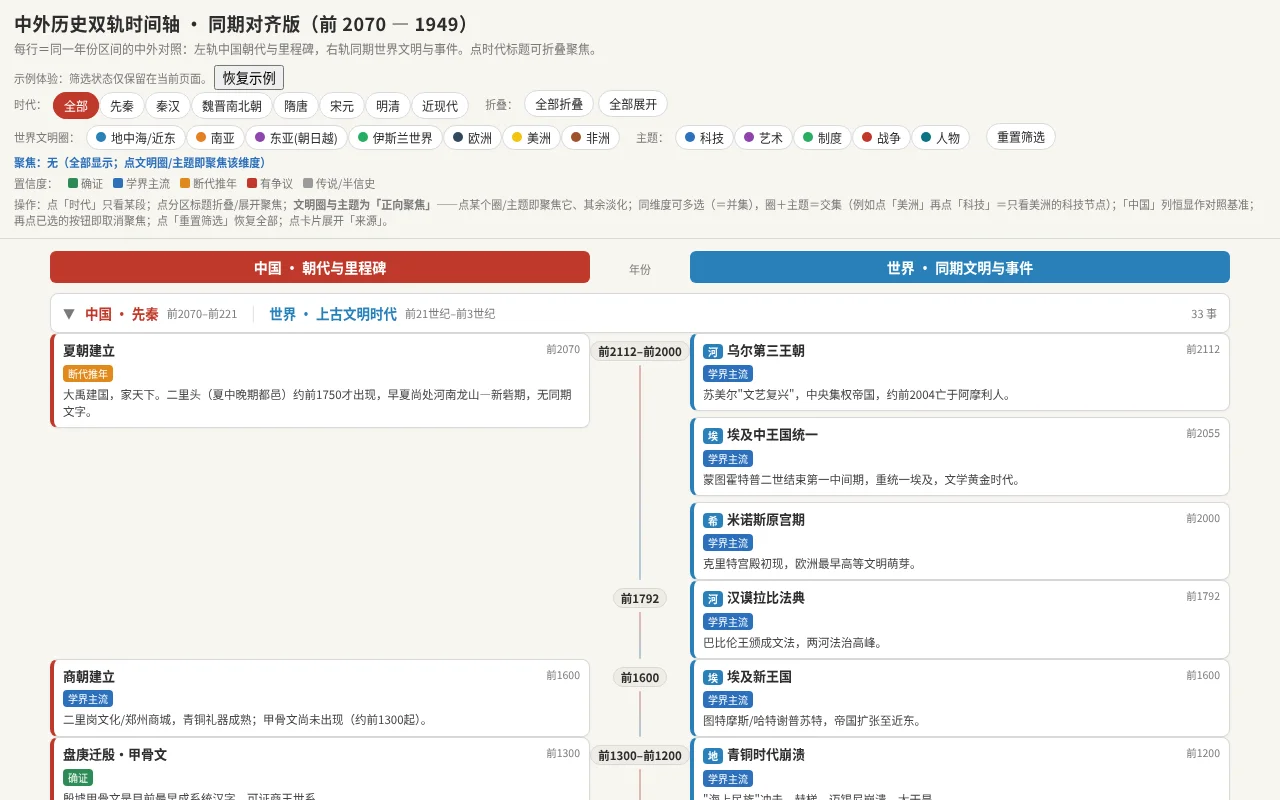
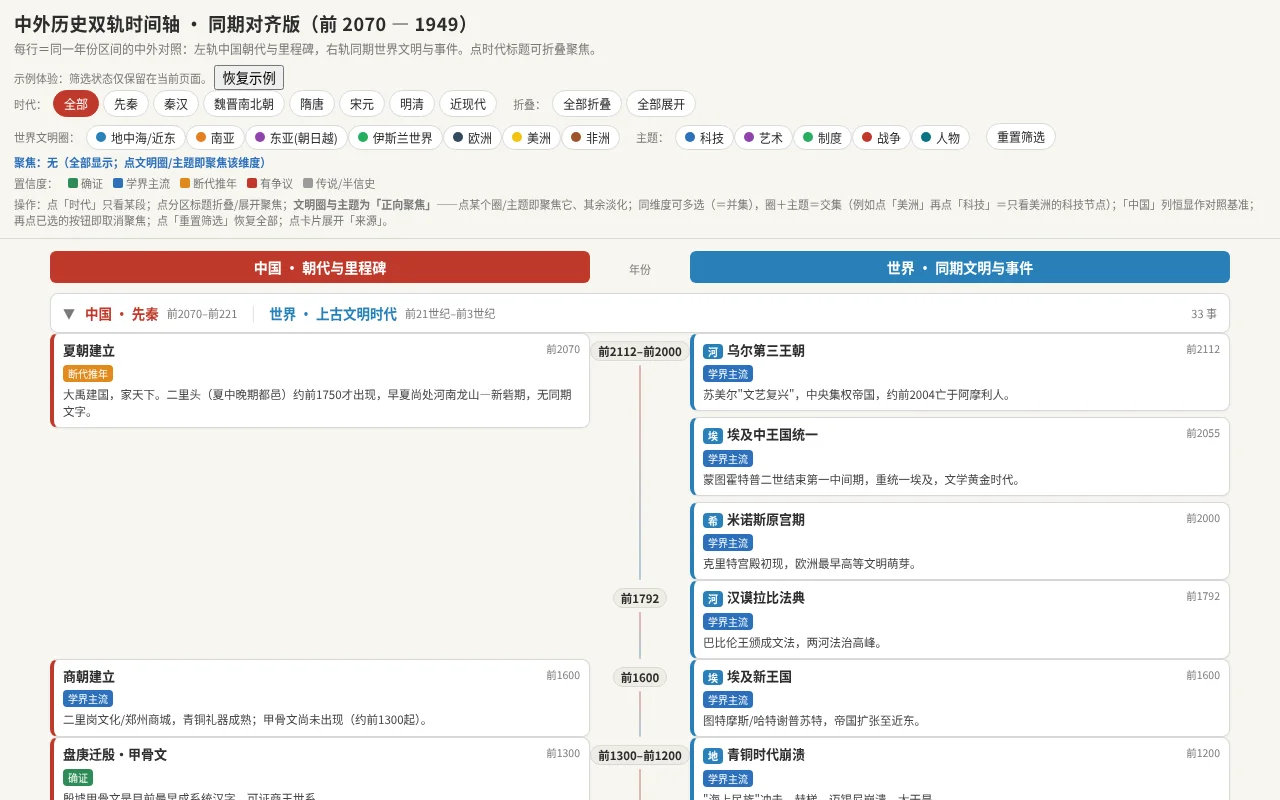
Improve timeline on narrow screens

Changed region(s): [[0.0312, 0.0938, 0.5312, 0.1562]]

diff --git a/4d5bea81fa658e0c4296d7ae/app.js b/4d5bea81fa658e0c4296d7ae/app.js
@@ -1,4 +1,4 @@
-const style=document.createElement("style");style.textContent="\n  :root{\n    --china:#C0392B; --med:#2980B9; --sa:#E67E22; --ea:#8E44AD; --is:#27AE60;\n    --eu:#34495E; --am:#F1C40F; --af:#A0522D;\n    --ink:#2c2c2c; --muted:#7a7a7a; --line:#d9d9d9; --bg:#f7f5f0; --card:#fff;\n    --c-ok:#2e8b57; --c-main:#2c6fbb; --c-push:#e08a1e; --c-debate:#c0392b; --c-legend:#9b9b9b;\n  }\n  *{box-sizing:border-box;}\n  body{margin:0;font-family:\"PingFang SC\",\"Microsoft YaHei\",\"Noto Sans CJK SC\",sans-serif;background:var(--bg);color:var(--ink);}\n  header{position:sticky;top:0;z-index:30;background:rgba(247,245,240,.97);backdrop-filter:blur(6px);border-bottom:1px solid var(--line);padding:10px 14px;}\n  h1{font-size:18px;margin:0 0 4px;font-weight:700;letter-spacing:.5px;}\n  .sub{font-size:12px;color:var(--muted);margin-bottom:8px;}\n  .filters{display:flex;flex-wrap:wrap;gap:6px;align-items:center;}\n  .grp{display:flex;gap:4px;flex-wrap:wrap;align-items:center;margin-right:10px;}\n  .grp .lab{font-size:11px;color:var(--muted);margin-right:2px;}\n  .btn{font-size:12px;padding:4px 10px;border:1px solid var(--line);background:#fff;border-radius:16px;cursor:pointer;transition:.15s;color:var(--ink);}\n  .btn:hover{border-color:#bbb;}\n  .btn.active{background:var(--china);color:#fff;border-color:var(--china);}\n  .tog{font-size:12px;padding:3px 9px;border:1px solid var(--line);background:#fff;border-radius:14px;cursor:pointer;display:inline-flex;align-items:center;gap:5px;transition:.15s;}\n  .tog .dot{width:10px;height:10px;border-radius:50%;display:inline-block;}\n  .tog.on{background:#eaf1fb;border-color:#2c6fbb;color:#1c4f8f;font-weight:700;box-shadow:0 0 0 1px #2c6fbb inset;}\n  .legend-conf{display:flex;gap:10px;flex-wrap:wrap;font-size:11px;color:var(--muted);margin-top:5px;}\n  .legend-conf span{display:inline-flex;align-items:center;gap:3px;}\n  .legend-conf i{width:10px;height:10px;border-radius:2px;display:inline-block;}\n  .hint{font-size:11px;color:var(--muted);margin-top:5px;}\n  .xstatus{font-size:11px;color:#2c6fbb;margin-top:4px;font-weight:600;}\n\n  .board{max-width:1200px;margin:0 auto;padding:12px 10px 30px;}\n  .hrow{display:grid;grid-template-columns:1fr 84px 1fr;gap:8px;margin-bottom:6px;position:sticky;top:150px;z-index:6;}\n  .hcell{font-weight:700;font-size:14px;text-align:center;padding:6px 0;border-radius:6px;}\n  .hcell.cn{color:#fff;background:var(--china);}\n  .hcell.wd{color:#fff;background:var(--med);}\n  .hcell.mid{background:transparent;color:var(--muted);font-size:11px;font-weight:400;align-self:end;}\n\n  section.era{margin:10px 0 16px;}\n  .era-head{display:flex;align-items:center;gap:8px;flex-wrap:wrap;background:#fff;border:1px solid var(--line);border-radius:8px;padding:7px 12px;cursor:pointer;user-select:none;box-shadow:0 1px 3px rgba(0,0,0,.04);}\n  .era-head:hover{border-color:#bbb;}\n  .chev{transition:.2s;font-size:12px;color:var(--muted);width:14px;}\n  section.closed .chev{transform:rotate(-90deg);}\n  section.closed .rows{display:none;}\n  .era-head .cnl{font-weight:700;color:var(--china);font-size:13.5px;}\n  .era-head .wdl{font-weight:700;color:var(--med);font-size:13.5px;}\n  .era-head .rng{font-size:11px;color:var(--muted);}\n  .era-head .sep{color:var(--line);}\n  .era-head .cnt{font-size:11px;color:var(--muted);margin-left:auto;}\n\n  .row{display:grid;grid-template-columns:1fr 84px 1fr;gap:8px;align-items:stretch;margin:0;}\n  .cell{display:flex;flex-direction:column;gap:6px;min-width:0;}\n  .cell .none{flex:1;border:1px dashed transparent;border-radius:6px;min-height:10px;}\n  .mid{display:flex;flex-direction:column;align-items:center;justify-content:flex-start;padding-top:8px;}\n  .mid .yr{font-size:11.5px;color:var(--ink);font-weight:700;white-space:nowrap;font-variant-numeric:tabular-nums;background:#efece5;border:1px solid var(--line);border-radius:10px;padding:1px 7px;}\n  .mid .tick{flex:1;width:2px;background:linear-gradient(var(--china),var(--med));opacity:.35;margin-top:4px;border-radius:2px;}\n\n  .card{background:var(--card);border:1px solid var(--line);border-radius:8px;padding:7px 9px;box-shadow:0 1px 3px rgba(0,0,0,.04);cursor:pointer;transition:.15s;position:relative;}\n  .card:hover{box-shadow:0 3px 10px rgba(0,0,0,.1);}\n  .card.cn{border-left:4px solid var(--china);}\n  .card.wd{border-left:4px solid var(--med);}\n  .card.dim{opacity:.18;filter:grayscale(.6);}\n  .card .top{display:flex;justify-content:space-between;align-items:flex-start;gap:6px;}\n  .card .ttl{font-size:13px;font-weight:600;line-height:1.35;}\n  .card .yr{font-size:10.5px;color:var(--muted);white-space:nowrap;font-variant-numeric:tabular-nums;}\n  .badge{display:inline-block;font-size:10px;color:#fff;border-radius:4px;padding:1px 5px;margin-right:4px;vertical-align:middle;}\n  .conf{font-size:10px;padding:1px 5px;border-radius:4px;color:#fff;white-space:nowrap;}\n  .conf.ok{background:var(--c-ok);} .conf.main{background:var(--c-main);} .conf.push{background:var(--c-push);}\n  .conf.debate{background:var(--c-debate);} .conf.legend{background:var(--c-legend);}\n  .card .desc{font-size:11.5px;color:#444;margin-top:3px;line-height:1.5;}\n  .card .src{font-size:11px;color:var(--muted);margin-top:5px;display:none;border-top:1px dashed var(--line);padding-top:5px;}\n  .card.open .src{display:block;}\n  .theme-tag{display:inline-block;font-size:10px;background:#eee;color:#555;border-radius:4px;padding:1px 6px;margin-right:4px;}\n\n  footer{max-width:1200px;margin:0 auto;padding:14px;font-size:11px;color:var(--muted);line-height:1.7;}\n  footer b{color:var(--ink);}\n  @media(max-width:680px){\n    .hrow,.row{grid-template-columns:1fr 58px 1fr;gap:4px;}\n    .card .ttl{font-size:12px;} .card .desc{font-size:10.5px;} .mid .yr{font-size:10px;padding:1px 4px;}\n    .era-head .cnt{display:none;}\n  }\n";document.head.appendChild(style);document.title="中外历史双轨时间轴（前2070 — 1949）";document.getElementById("app").innerHTML="\n<header>\n  <h1>中外历史双轨时间轴 · 同期对齐版（前 2070 — 1949）</h1>\n  <div class=\"sub\">每行＝同一年份区间的中外对照：左轨中国朝代与里程碑，右轨同期世界文明与事件。点时代标题可折叠聚焦。</div>\n  <div class=\"filters\">\n    <div class=\"grp\"><span class=\"lab\">时代：</span><span id=\"eraBtns\"></span></div>\n    <div class=\"grp\"><span class=\"lab\">折叠：</span><span class=\"btn\" id=\"foldAll\">全部折叠</span><span class=\"btn\" id=\"unfoldAll\">全部展开</span></div>\n    <div class=\"grp\"><span class=\"lab\">世界文明圈：</span><span id=\"regionBtns\"></span></div>\n    <div class=\"grp\"><span class=\"lab\">主题：</span><span id=\"themeBtns\"></span></div>\n    <div class=\"grp\"><span class=\"btn\" id=\"resetFilter\">重置筛选</span></div>\n  </div>\n  <div class=\"xstatus\" id=\"xstatus\"></div>\n  <div class=\"legend-conf\">\n    <span>置信度：</span>\n    <span><i style=\"background:var(--c-ok)\"></i>确证</span>\n    <span><i style=\"background:var(--c-main)\"></i>学界主流</span>\n    <span><i style=\"background:var(--c-push)\"></i>断代推年</span>\n    <span><i style=\"background:var(--c-debate)\"></i>有争议</span>\n    <span><i style=\"background:var(--c-legend)\"></i>传说/半信史</span>\n  </div>\n  <div class=\"hint\">操作：点「时代」只看某段；点分区标题折叠/展开聚焦；<b>文明圈与主题为「正向聚焦」</b>——点某个圈/主题即聚焦它、其余淡化；同维度可多选（＝并集），圈＋主题＝交集（例如点「美洲」再点「科技」＝只看美洲的科技节点）；「中国」列恒显作对照基准；再点已选的按钮即取消聚焦；点「重置筛选」恢复全部；点卡片展开「来源」。</div>\n</header>\n\n<div class=\"board\">\n  <div class=\"hrow\">\n    <div class=\"hcell cn\">中国 · 朝代与里程碑</div>\n    <div class=\"hcell mid\">年份</div>\n    <div class=\"hcell wd\">世界 · 同期文明与事件</div>\n  </div>\n  <div id=\"sections\"></div>\n</div>\n\n<footer>\n  <b>说明与边界：</b>① 时代分区双标——左侧用中国朝代（先秦/秦汉/…），右侧用世界史学分期（上古文明/古典时代/中世纪/近代早期/工业时代），两列不互挂；② 每行左右同属一个<b>年份区间</b>（区间宽随时代密度自适应），同一行即\"大致同期\"，非严格同年；③ 前秦（夏、商早期）年代多来自<b>夏商周断代工程推年</b>，标「推年/传说」；④ 世界侧按<b>七大文化区</b>着色＋文字徽标（地中海近东/南亚/东亚朝日越/伊斯兰/欧洲/美洲/非洲），并补充了<b>美洲（奥尔梅克→玛雅→阿兹特克→印加→美国）</b>与<b>奥斯曼/萨法维/莫卧儿/俄罗斯</b>等更连续的文明主线；⑤ 近代（1840–1949）世界侧按主题聚合（科技/制度/战争）；⑥ 各时代增设<b>科技/艺术/制度/战争/人物</b>五大主题专项节点（带彩色主题标签，可在顶栏「主题」正向聚焦；其中<b>「人物」收录具世界影响力的先贤与巨匠</b>，生年作节点、卒年写入简介）；⑦ 每节点带置信度与来源，具体年代以权威史学/考古结论为准。本轴为<b>教学辅助</b>，非考据定本。\n</footer>\n\n";
+const style=document.createElement("style");style.textContent="\n  :root{\n    --china:#C0392B; --med:#2980B9; --sa:#E67E22; --ea:#8E44AD; --is:#27AE60;\n    --eu:#34495E; --am:#F1C40F; --af:#A0522D;\n    --ink:#2c2c2c; --muted:#7a7a7a; --line:#d9d9d9; --bg:#f7f5f0; --card:#fff;\n    --c-ok:#2e8b57; --c-main:#2c6fbb; --c-push:#e08a1e; --c-debate:#c0392b; --c-legend:#9b9b9b;\n  }\n  *{box-sizing:border-box;}\n  body{margin:0;font-family:\"PingFang SC\",\"Microsoft YaHei\",\"Noto Sans CJK SC\",sans-serif;background:var(--bg);color:var(--ink);}\n  header{position:sticky;top:0;z-index:30;background:rgba(247,245,240,.97);backdrop-filter:blur(6px);border-bottom:1px solid var(--line);padding:10px 14px;}\n  h1{font-size:18px;margin:0 0 4px;font-weight:700;letter-spacing:.5px;}\n  .sub{font-size:12px;color:var(--muted);margin-bottom:8px;}\n  .filters{display:flex;flex-wrap:wrap;gap:6px;align-items:center;}\n  .grp{display:flex;gap:4px;flex-wrap:wrap;align-items:center;margin-right:10px;}\n  #eraBtns{display:inline-flex;flex-wrap:wrap;gap:4px;}\n  .grp .lab{font-size:11px;color:var(--muted);margin-right:2px;}\n  .btn{font-size:12px;padding:4px 10px;border:1px solid var(--line);background:#fff;border-radius:16px;cursor:pointer;transition:.15s;color:var(--ink);}\n  .btn:hover{border-color:#bbb;}\n  .btn.active{background:var(--china);color:#fff;border-color:var(--china);}\n  .tog{font-size:12px;padding:3px 9px;border:1px solid var(--line);background:#fff;border-radius:14px;cursor:pointer;display:inline-flex;align-items:center;gap:5px;transition:.15s;}\n  .tog .dot{width:10px;height:10px;border-radius:50%;display:inline-block;}\n  .tog.on{background:#eaf1fb;border-color:#2c6fbb;color:#1c4f8f;font-weight:700;box-shadow:0 0 0 1px #2c6fbb inset;}\n  .legend-conf{display:flex;gap:10px;flex-wrap:wrap;font-size:11px;color:var(--muted);margin-top:5px;}\n  .legend-conf span{display:inline-flex;align-items:center;gap:3px;}\n  .legend-conf i{width:10px;height:10px;border-radius:2px;display:inline-block;}\n  .hint{font-size:11px;color:var(--muted);margin-top:5px;}\n  .xstatus{font-size:11px;color:#2c6fbb;margin-top:4px;font-weight:600;}\n\n  .board{max-width:1200px;margin:0 auto;padding:12px 10px 30px;}\n  .hrow{display:grid;grid-template-columns:1fr 84px 1fr;gap:8px;margin-bottom:6px;position:sticky;top:150px;z-index:6;}\n  .hcell{font-weight:700;font-size:14px;text-align:center;padding:6px 0;border-radius:6px;}\n  .hcell.cn{color:#fff;background:var(--china);}\n  .hcell.wd{color:#fff;background:var(--med);}\n  .hcell.mid{background:transparent;color:var(--muted);font-size:11px;font-weight:400;align-self:end;}\n\n  section.era{margin:10px 0 16px;}\n  .era-head{display:flex;align-items:center;gap:8px;flex-wrap:wrap;background:#fff;border:1px solid var(--line);border-radius:8px;padding:7px 12px;cursor:pointer;user-select:none;box-shadow:0 1px 3px rgba(0,0,0,.04);}\n  .era-head:hover{border-color:#bbb;}\n  .chev{transition:.2s;font-size:12px;color:var(--muted);width:14px;}\n  section.closed .chev{transform:rotate(-90deg);}\n  section.closed .rows{display:none;}\n  .era-head .cnl{font-weight:700;color:var(--china);font-size:13.5px;}\n  .era-head .wdl{font-weight:700;color:var(--med);font-size:13.5px;}\n  .era-head .rng{font-size:11px;color:var(--muted);}\n  .era-head .sep{color:var(--line);}\n  .era-head .cnt{font-size:11px;color:var(--muted);margin-left:auto;}\n\n  .row{display:grid;grid-template-columns:1fr 84px 1fr;gap:8px;align-items:stretch;margin:0;}\n  .cell{display:flex;flex-direction:column;gap:6px;min-width:0;}\n  .cell .none{flex:1;border:1px dashed transparent;border-radius:6px;min-height:10px;}\n  .mid{display:flex;flex-direction:column;align-items:center;justify-content:flex-start;padding-top:8px;}\n  .mid .yr{font-size:11.5px;color:var(--ink);font-weight:700;white-space:nowrap;font-variant-numeric:tabular-nums;background:#efece5;border:1px solid var(--line);border-radius:10px;padding:1px 7px;}\n  .mid .tick{flex:1;width:2px;background:linear-gradient(var(--china),var(--med));opacity:.35;margin-top:4px;border-radius:2px;}\n\n  .card{background:var(--card);border:1px solid var(--line);border-radius:8px;padding:7px 9px;box-shadow:0 1px 3px rgba(0,0,0,.04);cursor:pointer;transition:.15s;position:relative;}\n  .card:hover{box-shadow:0 3px 10px rgba(0,0,0,.1);}\n  .card.cn{border-left:4px solid var(--china);}\n  .card.wd{border-left:4px solid var(--med);}\n  .card.dim{opacity:.18;filter:grayscale(.6);}\n  .card .top{display:flex;justify-content:space-between;align-items:flex-start;gap:6px;}\n  .card .ttl{font-size:13px;font-weight:600;line-height:1.35;}\n  .card .yr{font-size:10.5px;color:var(--muted);white-space:nowrap;font-variant-numeric:tabular-nums;}\n  .badge{display:inline-block;font-size:10px;color:#fff;border-radius:4px;padding:1px 5px;margin-right:4px;vertical-align:middle;}\n  .conf{font-size:10px;padding:1px 5px;border-radius:4px;color:#fff;white-space:nowrap;}\n  .conf.ok{background:var(--c-ok);} .conf.main{background:var(--c-main);} .conf.push{background:var(--c-push);}\n  .conf.debate{background:var(--c-debate);} .conf.legend{background:var(--c-legend);}\n  .card .desc{font-size:11.5px;color:#444;margin-top:3px;line-height:1.5;}\n  .card .src{font-size:11px;color:var(--muted);margin-top:5px;display:none;border-top:1px dashed var(--line);padding-top:5px;}\n  .card.open .src{display:block;}\n  .theme-tag{display:inline-block;font-size:10px;background:#eee;color:#555;border-radius:4px;padding:1px 6px;margin-right:4px;}\n\n  footer{max-width:1200px;margin:0 auto;padding:14px;font-size:11px;color:var(--muted);line-height:1.7;}\n  footer b{color:var(--ink);}\n  @media(max-width:680px){\n    .hrow,.row{grid-template-columns:1fr 58px 1fr;gap:4px;}\n    .card .ttl{font-size:12px;} .card .desc{font-size:10.5px;} .mid .yr{font-size:8px;padding:1px 1px;}\n    .era-head .cnt{display:none;}\n  }\n";document.head.appendChild(style);document.title="中外历史双轨时间轴（前2070 — 1949）";document.getElementById("app").innerHTML="\n<header>\n  <h1>中外历史双轨时间轴 · 同期对齐版（前 2070 — 1949）</h1>\n  <div class=\"sub\">每行＝同一年份区间的中外对照：左轨中国朝代与里程碑，右轨同期世界文明与事件。点时代标题可折叠聚焦。</div>\n  <div class=\"filters\">\n    <div class=\"grp\"><span class=\"lab\">时代：</span><span id=\"eraBtns\"></span></div>\n    <div class=\"grp\"><span class=\"lab\">折叠：</span><span class=\"btn\" id=\"foldAll\">全部折叠</span><span class=\"btn\" id=\"unfoldAll\">全部展开</span></div>\n    <div class=\"grp\"><span class=\"lab\">世界文明圈：</span><span id=\"regionBtns\"></span></div>\n    <div class=\"grp\"><span class=\"lab\">主题：</span><span id=\"themeBtns\"></span></div>\n    <div class=\"grp\"><span class=\"btn\" id=\"resetFilter\">重置筛选</span></div>\n  </div>\n  <div class=\"xstatus\" id=\"xstatus\"></div>\n  <div class=\"legend-conf\">\n    <span>置信度：</span>\n    <span><i style=\"background:var(--c-ok)\"></i>确证</span>\n    <span><i style=\"background:var(--c-main)\"></i>学界主流</span>\n    <span><i style=\"background:var(--c-push)\"></i>断代推年</span>\n    <span><i style=\"background:var(--c-debate)\"></i>有争议</span>\n    <span><i style=\"background:var(--c-legend)\"></i>传说/半信史</span>\n  </div>\n  <div class=\"hint\">操作：点「时代」只看某段；点分区标题折叠/展开聚焦；<b>文明圈与主题为「正向聚焦」</b>——点某个圈/主题即聚焦它、其余淡化；同维度可多选（＝并集），圈＋主题＝交集（例如点「美洲」再点「科技」＝只看美洲的科技节点）；「中国」列恒显作对照基准；再点已选的按钮即取消聚焦；点「重置筛选」恢复全部；点卡片展开「来源」。</div>\n</header>\n\n<div class=\"board\">\n  <div class=\"hrow\">\n    <div class=\"hcell cn\">中国 · 朝代与里程碑</div>\n    <div class=\"hcell mid\">年份</div>\n    <div class=\"hcell wd\">世界 · 同期文明与事件</div>\n  </div>\n  <div id=\"sections\"></div>\n</div>\n\n<footer>\n  <b>说明与边界：</b>① 时代分区双标——左侧用中国朝代（先秦/秦汉/…），右侧用世界史学分期（上古文明/古典时代/中世纪/近代早期/工业时代），两列不互挂；② 每行左右同属一个<b>年份区间</b>（区间宽随时代密度自适应），同一行即\"大致同期\"，非严格同年；③ 前秦（夏、商早期）年代多来自<b>夏商周断代工程推年</b>，标「推年/传说」；④ 世界侧按<b>七大文化区</b>着色＋文字徽标（地中海近东/南亚/东亚朝日越/伊斯兰/欧洲/美洲/非洲），并补充了<b>美洲（奥尔梅克→玛雅→阿兹特克→印加→美国）</b>与<b>奥斯曼/萨法维/莫卧儿/俄罗斯</b>等更连续的文明主线；⑤ 近代（1840–1949）世界侧按主题聚合（科技/制度/战争）；⑥ 各时代增设<b>科技/艺术/制度/战争/人物</b>五大主题专项节点（带彩色主题标签，可在顶栏「主题」正向聚焦；其中<b>「人物」收录具世界影响力的先贤与巨匠</b>，生年作节点、卒年写入简介）；⑦ 每节点带置信度与来源，具体年代以权威史学/考古结论为准。本轴为<b>教学辅助</b>，非考据定本。\n</footer>\n\n";
 
 /* 字段：[公元年(负=公元前), 轨(cn/wd), 文化区, 徽标, 标题, 描述, 置信, 来源, 主题(仅近现代世界)] */
 const REGIONS = {

diff --git a/4d5bea81fa658e0c4296d7ae/showcase/preview.html b/4d5bea81fa658e0c4296d7ae/showcase/preview.html
@@ -19,6 +19,7 @@
   .sub{font-size:12px;color:var(--muted);margin-bottom:8px;}
   .filters{display:flex;flex-wrap:wrap;gap:6px;align-items:center;}
   .grp{display:flex;gap:4px;flex-wrap:wrap;align-items:center;margin-right:10px;}
+  #eraBtns{display:inline-flex;flex-wrap:wrap;gap:4px;}
   .grp .lab{font-size:11px;color:var(--muted);margin-right:2px;}
   .btn{font-size:12px;padding:4px 10px;border:1px solid var(--line);background:#fff;border-radius:16px;cursor:pointer;transition:.15s;color:var(--ink);}
   .btn:hover{border-color:#bbb;}
@@ -79,7 +80,7 @@
   footer b{color:var(--ink);}
   @media(max-width:680px){
     .hrow,.row{grid-template-columns:1fr 58px 1fr;gap:4px;}
-    .card .ttl{font-size:12px;} .card .desc{font-size:10.5px;} .mid .yr{font-size:10px;padding:1px 4px;}
+    .card .ttl{font-size:12px;} .card .desc{font-size:10.5px;} .mid .yr{font-size:8px;padding:1px 1px;}
     .era-head .cnt{display:none;}
   }
 </style>
